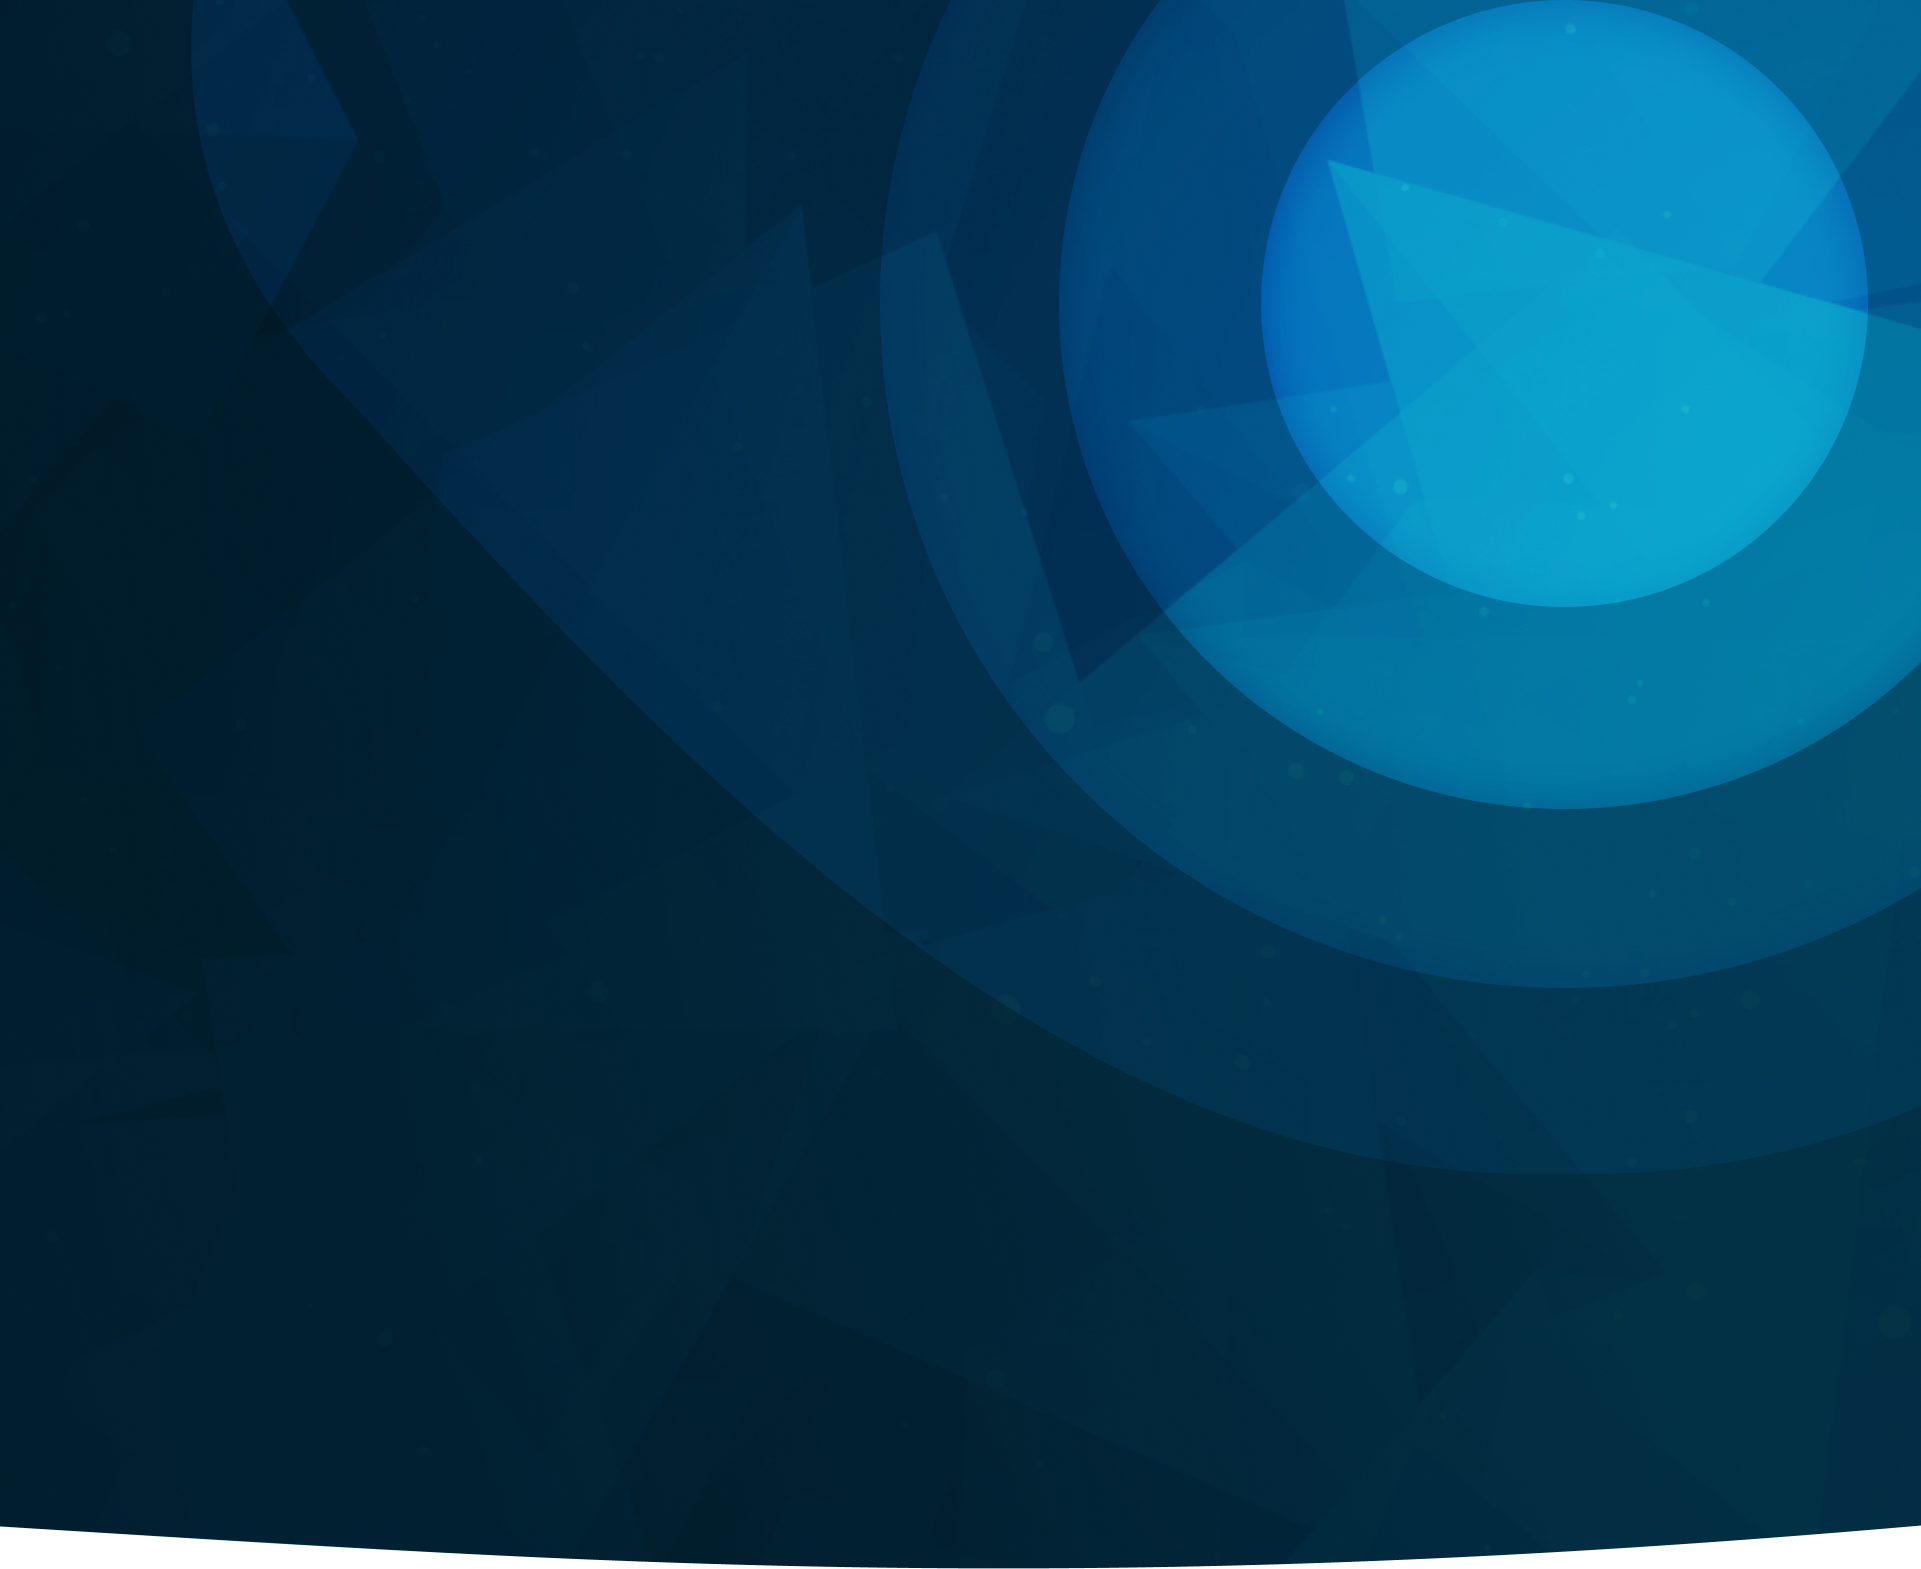
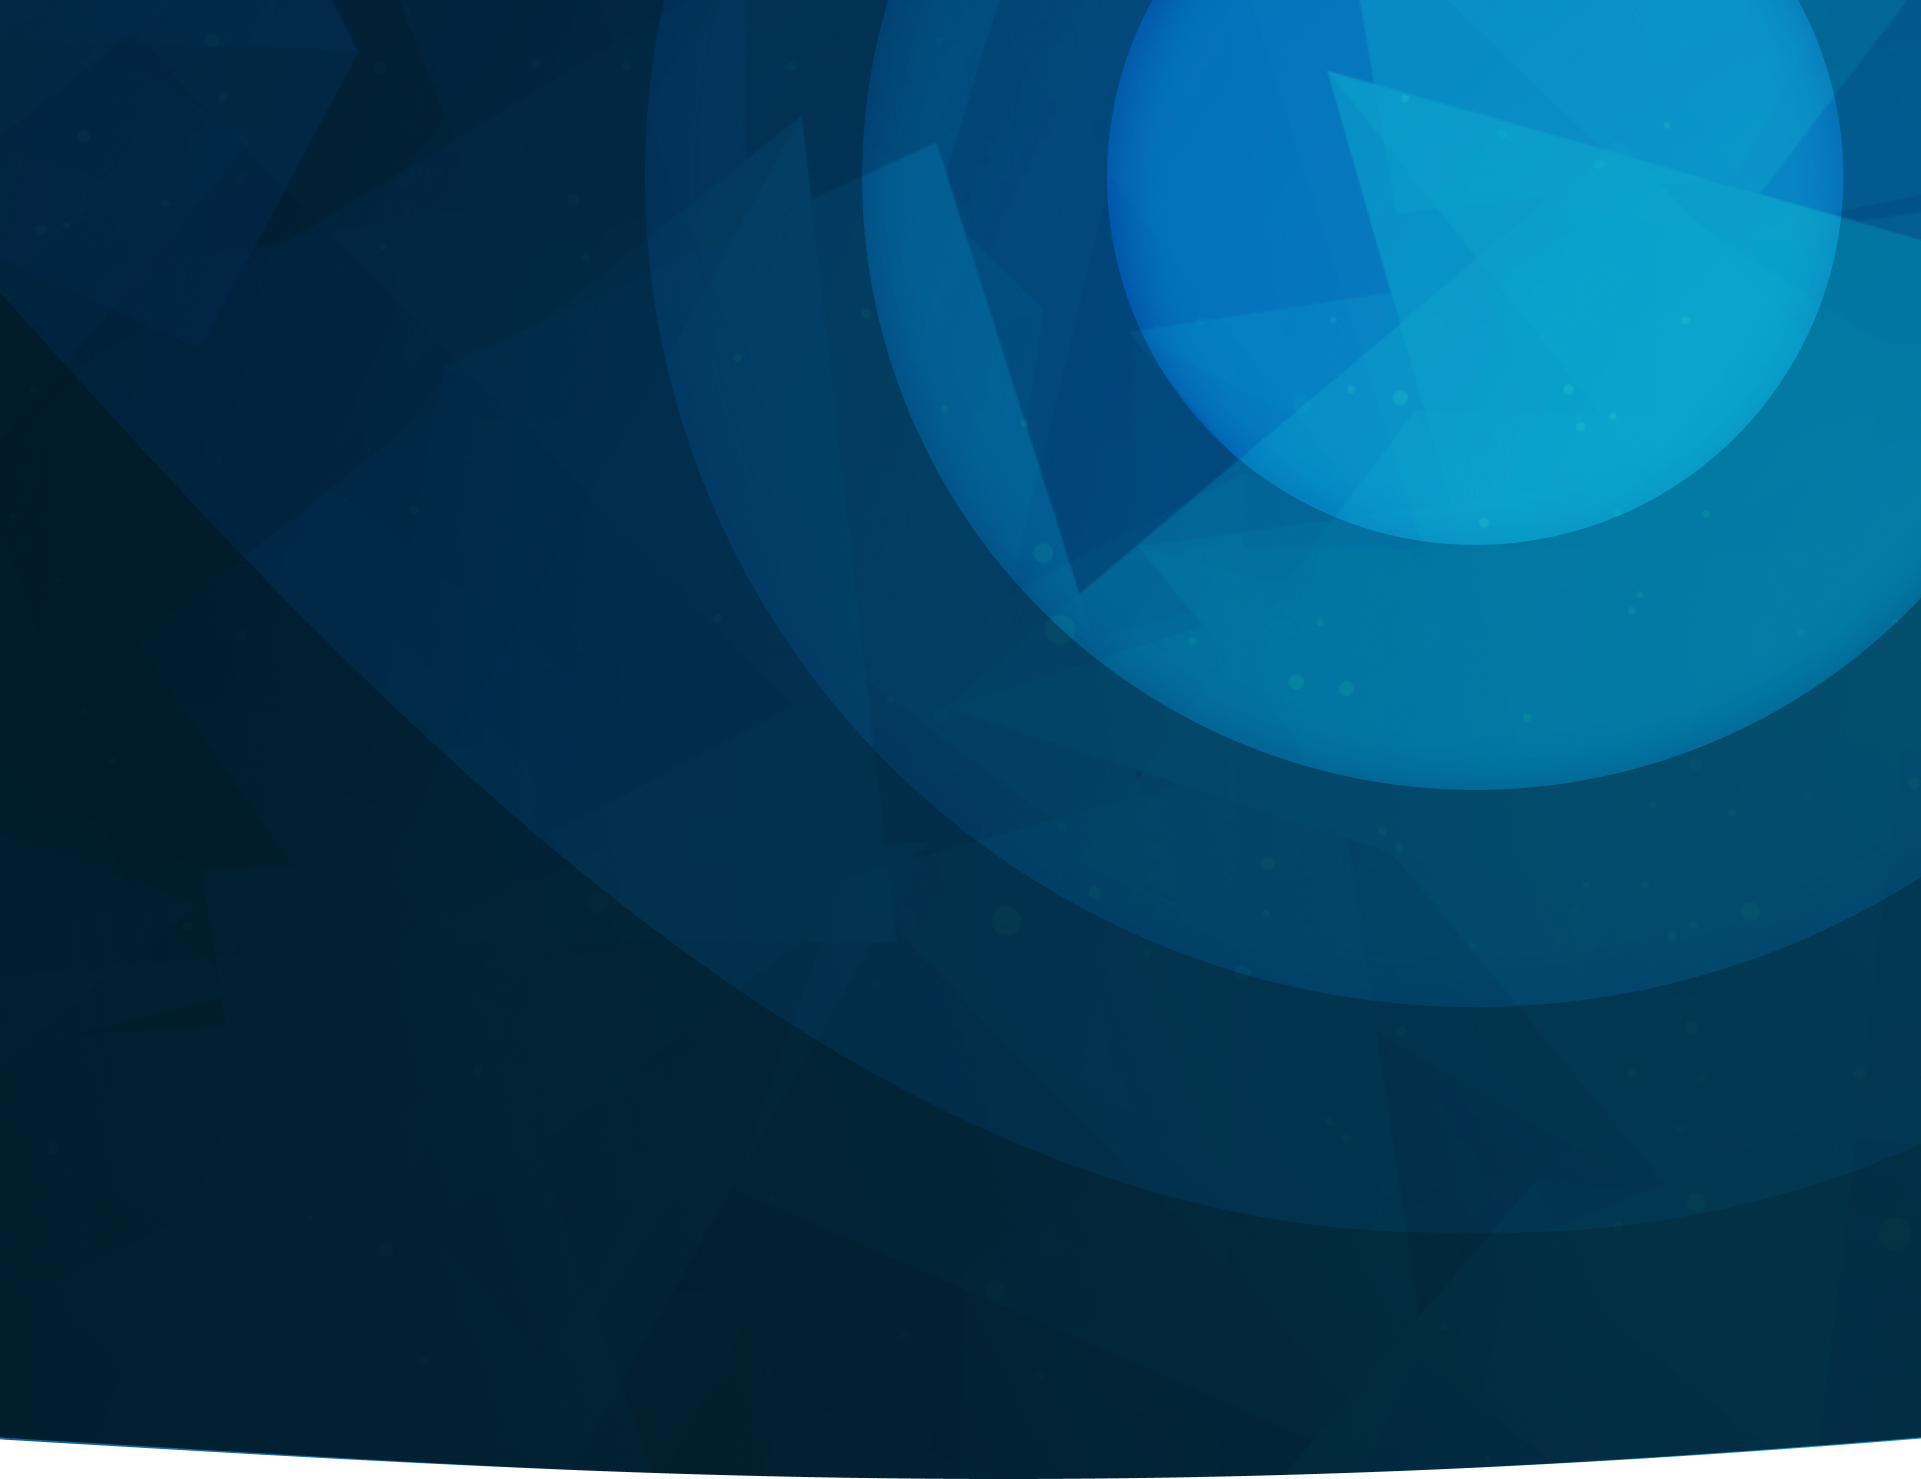
Raise background image

diff --git a/portfolio/src/app/intro.tsx b/portfolio/src/app/intro.tsx
@@ -2,8 +2,8 @@ export default function Intro() {
     return (
         <section className="flex flex-col justify-center gap-10">
             <div className="">
-                <h1 className="text-9xl font-semibold">{"Hello"}</h1>
-                <h2 className="text-[3.35rem] font-light text-amber-300">{"I am Devvaru"}</h2>
+                <h1 className="text-9xl font-bold">{"Hello"}</h1>
+                <h2 className="text-[3.35rem] font-light text-amber-300">{"I am Devaru"}</h2>
             </div>
             <p className="w-full lg:w-1/2 xl:w-1/3">{"I'm a full stack web developer specializing in modern JavaScript frameworks, with a strong focus on React and crafting high-quality front-end experiences. I have a deep understanding of UI/UX principles and bring designs to life through scalable, accessible, and responsive interfaces with a mobile-first approach. My experience spans custom web applications, CMS platforms like WordPress and Squarespace, and performance-optimized front-end solutions. I’m passionate about building seamless user experiences through clean, maintainable code."}</p>
             <a href={"mailto:devongaal@gmail.com"} target="_blank" rel="noopener noreferrer" className="py-2 px-6 bg-cyan-600 hover:bg-cyan-800 text-white rounded-full flex justify-center font-semibold w-50 duration-300">{"Let's Collaborate"}</a>

diff --git a/portfolio/src/app/page.tsx b/portfolio/src/app/page.tsx
@@ -8,7 +8,7 @@ export default function Home() {
     <div>
       <Navigation />
       <main className="">
-        <section id="banner" className="bg-[url(/images/portfolio-bg-full.png)] bg-cover flex flex-col justify-center gap-10 xl:gap-20 bg-gradient-to-bl text-blue-50 py-15 xl:py-25 px-5 md:px-12 xl:px-30 z-0 relative">
+        <section id="banner" className="bg-[url(/images/portfolio-bg-full.png)] bg-cover flex flex-col justify-center gap-10 xl:gap-20 bg-gradient-to-bl text-blue-50 py-15 xl:py-25 px-5 md:px-12 xl:px-30 bg-top">
           <section id="intro" className="mix-blend-normal">
             <Intro />
           </section>
